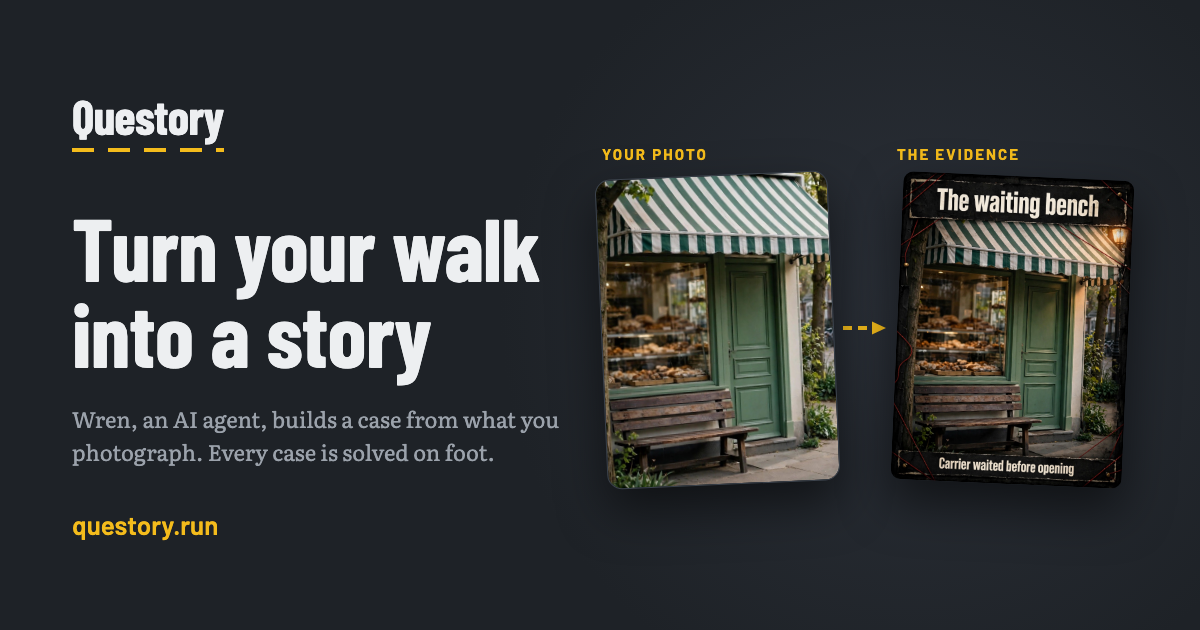
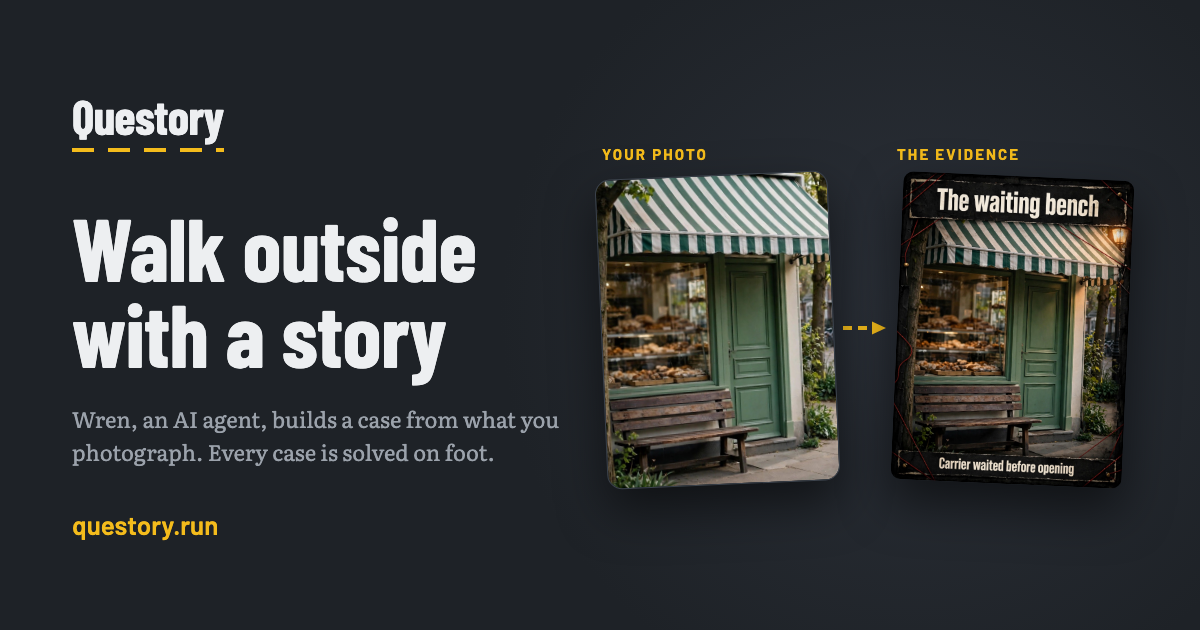
Use the video's slogan everywhere: Walk outside with a story (#79)
The demo video opens on "Walk outside with a story". The landing page
headline, the README banner, the link preview and the site description
said "Turn your walk into a story", so they now use the video's line.
The banner and the link preview are drawn from the same page as before,
with only the headline changed.

Changed region(s): [[0.0617, 0.3317, 0.4625, 0.4825], [0.0617, 0.4825, 0.37, 0.6333]]

diff --git a/lib/site.ts b/lib/site.ts
@@ -3,13 +3,13 @@ import type { Metadata } from "next";
 export const GITHUB_URL = "https://github.com/QiaoyuYang/questory";
 
 export const SITE_DESCRIPTION =
-  "Turn your walk into a story. An AI agent builds a case from what you photograph, and every case is solved on foot.";
+  "Walk outside with a story. An AI agent builds a case from what you photograph, and every case is solved on foot.";
 
 const PREVIEW_IMAGE = {
   url: "/link-preview.png",
   width: 1200,
   height: 630,
-  alt: "Questory: turn your walk into a story. A street photo, and beside it the same photo painted as a piece of evidence.",
+  alt: "Questory: walk outside with a story. A street photo, and beside it the same photo painted as a piece of evidence.",
 };
 
 /**

diff --git a/app/page.tsx b/app/page.tsx
@@ -71,7 +71,7 @@ export default function Home() {
       <section className="mt-10 grid gap-8 md:mt-14 md:grid-cols-[1fr_auto] md:items-center md:gap-16">
         <div>
           <h1 className="max-w-2xl font-sign text-[2.5rem] leading-[1.05] font-bold text-balance md:text-6xl">
-            Turn your walk into a story
+            Walk outside with a story
           </h1>
           <p className="mt-5 max-w-xl font-story text-lg leading-relaxed md:text-xl">
             Wren, an AI agent, builds a case from what you photograph. Every case is solved on foot.

diff --git a/README.md b/README.md
@@ -1,6 +1,6 @@
 <div align="center">
 
-<img src="docs/banner.webp" alt="Turn your walk into a story. Wren, an AI agent, builds a case from what you photograph, and every case is solved on foot. A street photo sits beside the same photo painted as a piece of evidence.">
+<img src="docs/banner.webp" alt="Walk outside with a story. Wren, an AI agent, builds a case from what you photograph, and every case is solved on foot. A street photo sits beside the same photo painted as a piece of evidence.">
 
 # Questory
 
